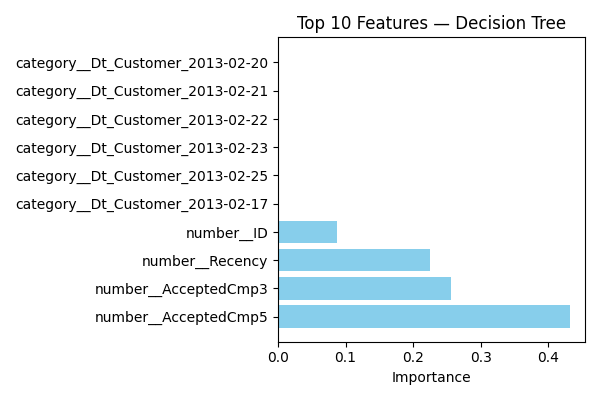
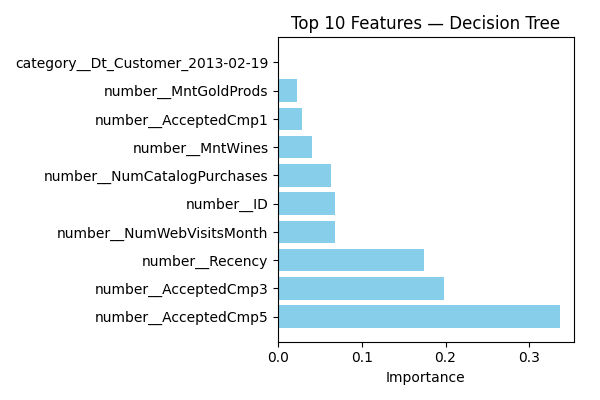
Update the README.md

diff --git a/src/tuning.py b/src/tuning.py
@@ -5,7 +5,7 @@ from sklearn.model_selection import GridSearchCV
 from sklearn.pipeline import Pipeline
 from sklearn.tree import DecisionTreeClassifier
 from sklearn.ensemble import RandomForestClassifier, AdaBoostClassifier
-from xgboost import XGBClassifier  # type: ignore
+from xgboost import XGBClassifier
 
 
 __all__ = ["tune_models"]
@@ -15,21 +15,21 @@ def _param_grids() -> Dict[str, Dict[str, list[Any]]]:
     """Define parameter grids for each estimator."""
     grids: Dict[str, Dict[str, list[Any]]] = {
         "Decision Tree": {
-            "estimator__max_depth": [None, 4, 6, 8],
-            "estimator__min_samples_split": [2, 5, 10],
+            "estimator__max_depth": [None, 2, 3, 4, 5],
+            "estimator__min_samples_split": [2, 3, 4],
         },
-        "Random Forest": {
-            "estimator__n_estimators": [100, 200, 400],
-            "estimator__max_depth": [None, 6, 10],
+       "Random Forest": {
+            "estimator__n_estimators": [ 435, 436, 437, 438, 440],
+            "estimator__max_depth": [None, 2, 3, 4],
         },
         "AdaBoost": {
-            "estimator__n_estimators": [50, 200, 400],
-            "estimator__learning_rate": [0.1, 0.5, 1.0],
+            "estimator__n_estimators": [ 444, 445, 446, 450],
+            "estimator__learning_rate": [ 0.1, 0.5, 0.6, 0.7, 0.8],
         },
          "XGBoost": {
-            "estimator__n_estimators": [100, 300],
-            "estimator__max_depth": [3, 6, 10],
-            "estimator__learning_rate": [0.05, 0.1, 0.2],
+            "estimator__n_estimators": [169, 170, 171, 172],
+            "estimator__max_depth": [2, 3, 4, 5],
+            "estimator__learning_rate": [ 0.09, 0.1, 0.11],
         }
     }
     return grids
@@ -49,7 +49,7 @@ def tune_models(
     preprocessor: Pipeline,
     X_train,
     y_train,
-    cv: int = 5,
+    cv: int = 10,
     scoring: str = "accuracy",
 ) -> Tuple[Dict[str, Pipeline], pd.DataFrame]:
     """Tune hyperparameters for each model and return best pipelines """

diff --git a/src/main.py b/src/main.py
@@ -5,12 +5,11 @@ from test_performance import evaluate_models
 from feature_importance import feature_importance
 from tuning import tune_models
 
-
-
 DATA_PATH = "../data/marketing_campaign.csv"
 TARGET_COL = "Response"
 result_dir_baseline = "../results/baseline"
 result_dir_tuned = "../results/tuned"
+
 
 def main() -> None:
     # 1) Load dataset
@@ -36,24 +35,27 @@ def main() -> None:
     tuned, cv_summary = tune_models(preprocessor, X_train, y_train)
     print("\nGridSearchCV summary (best CV accuracy):")
     print(cv_summary.to_string(index=False, float_format="{:.3f}".format))
-    
+    print("\n-----------------------------------------------------")
+
     # 6) Evaluate the models
     # baseline models
     results_df_baseline, _ = evaluate_models(trained, X_test, y_test)
     print("Performance summary for baseline models\n")
     print(results_df_baseline.to_string(col_space=12, float_format="{:.3f}".format))
+    print("\n-----------------------------------------------------")
 
     # tuned models
     results_df_tuned, _ = evaluate_models(tuned, X_test, y_test)
     print("Performance summary for tuned models\n")
     print(results_df_tuned.to_string(col_space=12, float_format="{:.3f}".format))
 
-    # 7) Plot feature importance (for models that support it)
+    # 7) Plot feature importance
     # Baseline
     feature_importance(trained, preprocessor, result_dir_baseline)
     # Tuned
     feature_importance(tuned, preprocessor, result_dir_tuned)
     print("\nFeature-importance plots saved")
+
 
 if __name__ == "__main__":
     main()

diff --git a/README.md b/README.md
@@ -1,45 +1,78 @@
-# MarketingCampaign
-A machine learning project to  to train a predictive model which allows the company to maximize the profit of the next marketing campaign.
+# Maximizing Profit for Marketing Campaigns
 
-dataset: 
-https://www.kaggle.com/datasets/rodsaldanha/arketing-campaign/data
-About Dataset
-Context
+## 1. Business Problem & Objective
 
-A response model can provide a significant boost to the efficiency of a marketing campaign by increasing responses or reducing expenses. The objective is to predict who will respond to an offer for a product or service
+The primary objective of this project is to build a predictive model to maximize the profit of an upcoming direct 
+marketing campaign. This campaign aims to sell a new gadget to its customer base.
 
-Content
+To achieve this, we leverage the pilot campaign data involving 2240 customers to build a model that can predict customer responses. By identifying and targeting only the customers most likely to purchase the gadget, the company can "cherry-pick" the customers that are most likely to purchase the offer while leaving out the non-respondents, making the incoming campaign highly profitable.
 
-AcceptedCmp1 - 1 if customer accepted the offer in the 1st campaign, 0 otherwise
-AcceptedCmp2 - 1 if customer accepted the offer in the 2nd campaign, 0 otherwise
-AcceptedCmp3 - 1 if customer accepted the offer in the 3rd campaign, 0 otherwise
-AcceptedCmp4 - 1 if customer accepted the offer in the 4th campaign, 0 otherwise
-AcceptedCmp5 - 1 if customer accepted the offer in the 5th campaign, 0 otherwise
-Response (target) - 1 if customer accepted the offer in the last campaign, 0 otherwise
-Complain - 1 if customer complained in the last 2 years
-DtCustomer - date of customer’s enrolment with the company
-Education - customer’s level of education
-Marital - customer’s marital status
-Kidhome - number of small children in customer’s household
- Teenhome - number of teenagers in customer’s household
- Income - customer’s yearly household income
-MntFishProducts - amount spent on fish products in the last 2 years
-MntMeatProducts - amount spent on meat products in the last 2 years
-MntFruits - amount spent on fruits products in the last 2 years
-MntSweetProducts - amount spent on sweet products in the last 2 years
-MntWines - amount spent on wine products in the last 2 years
-MntGoldProds - amount spent on gold products in the last 2 years
-NumDealsPurchases - number of purchases made with discount
-NumCatalogPurchases - number of purchases made using catalogue
-NumStorePurchases - number of purchases made directly in stores
-NumWebPurchases - number of purchases made through company’s web site
-NumWebVisitsMonth - number of visits to company’s web site in the last month
-Recency - number of days since the last purchase
+Beyond profit maximization, the Chief Marketing Officer (CMO) is also interested in understanding the key 
+characteristics of customers who are willing to buy the new product.
 
-Acknowledgements
+## 2. Pilot Campaign Analysis
 
-O. Parr-Rud. Business Analytics Using SAS Enterprise Guide and SAS Enterprise Miner. SAS Institute, 2014.
+A pilot campaign was conducted to gather data for building the predictive model.
 
-Inspiration
+- **Sample Size**: 2,240 customers were selected randomly and contacted.
+- **Colum**: 29 columns.
+- **Total Cost**: 6,720 MU.
+- **Total Revenue**: 3,674 MU.
+- **Total Profit/Loss**: -3,046 MU
+- **Success Rate**: 15% of customers accepted the offer.
 
-The main objective is to train a predictive model which allows the company to maximize the profit of the next marketing campaign.
+The low success rate highlights the need for a data-driven approach to select the target audience for the next campaign.
+
+## 3. Project Workflow
+
+This project follows a standard machine learning pipeline to build the model
+
+1.  **Data Preprocessing**: Cleans and transforms the raw data from the pilot campaign, handling missing values, encoding categorical features, and preparing it for modeling.
+2.  **Model Training**: Trains 4 out-of-the-box classification models (Decision Tree, Random Forest, AdaBoost, XGBoost) to predict target customers.
+3.  **Hyperparameter Tuning**: Utilizes `GridSearchCV` to find the optimal hyperparameters for each model, aiming to improve their predictive power.
+4.  **Performance Evaluation**: Compares the tuned models against the baseline models on a  testing set using various metrics (Accuracy, Precision, Recall, F1-Score, ROC AUC).
+5.  **Feature Importance for Interpretability**: Extracts and visualizes the most influential features from the best-performing models. This provides insights into the characteristics of target customers.
+
+## 4. Run the project
+
+1.  **Set up the environment and install dependencies.**
+2.  **Run the main.py**
+    ```bash
+    python src/main.py
+    ```
+3.  **Check the results:**
+    -   Performance metrics will be printed to the console.
+    -   Feature importance plots for baseline and tuned models will be saved in the `results/baseline` and `results/tuned` directories, respectively.
+
+## 5. Dataset
+
+The dataset contains information from the pilot marketing campaign.
+- **Source**: [Kaggle Marketing Campaign Dataset](https://www.kaggle.com/datasets/rodsaldanha/arketing-campaign/data)
+
+### Feature Description
+
+-   **`AcceptedCmp1`**: 1 if customer accepted the offer in the 1st campaign, 0 otherwise
+-   **`AcceptedCmp2`**: 1 if customer accepted the offer in the 2nd campaign, 0 otherwise
+-   **`AcceptedCmp3`**: 1 if customer accepted the offer in the 3rd campaign, 0 otherwise
+-   **`AcceptedCmp4`**: 1 if customer accepted the offer in the 4th campaign, 0 otherwise
+-   **`AcceptedCmp5`**: 1 if customer accepted the offer in the 5th campaign, 0 otherwise
+-   **`Response` (Target)**: 1 if customer accepted the offer in the last campaign, 0 otherwise
+-   **`Complain`**: 1 if customer complained in the last 2 years
+-   **`DtCustomer`**: Date of customer’s enrolment with the company
+-   **`Education`**: Customer’s level of education
+-   **`Marital`**: Customer’s marital status
+-   **`Kidhome`**: Number of small children in customer’s household
+-   **`Teenhome`**: Number of teenagers in customer’s household
+-   **`Income`**: Customer’s yearly household income
+-   **`MntFishProducts`**: Amount spent on fish products in the last 2 years
+-   **`MntMeatProducts`**: Amount spent on meat products in the last 2 years
+-   **`MntFruits`**: Amount spent on fruit products in the last 2 years
+-   **`MntSweetProducts`**: Amount spent on sweet products in the last 2 years
+-   **`MntWines`**: Amount spent on wine products in the last 2 years
+-   **`MntGoldProds`**: Amount spent on gold products in the last 2 years
+-   **`NumDealsPurchases`**: Number of purchases made with discount
+-   **`NumCatalogPurchases`**: Number of purchases made using catalogue
+-   **`NumStorePurchases`**: Number of purchases made directly in stores
+-   **`NumWebPurchases`**: Number of purchases made through company’s web site
+-   **`NumWebVisitsMonth`**: Number of visits to company’s web site in the last month
+-   **`Recency`**: Number of days since the last purchase
